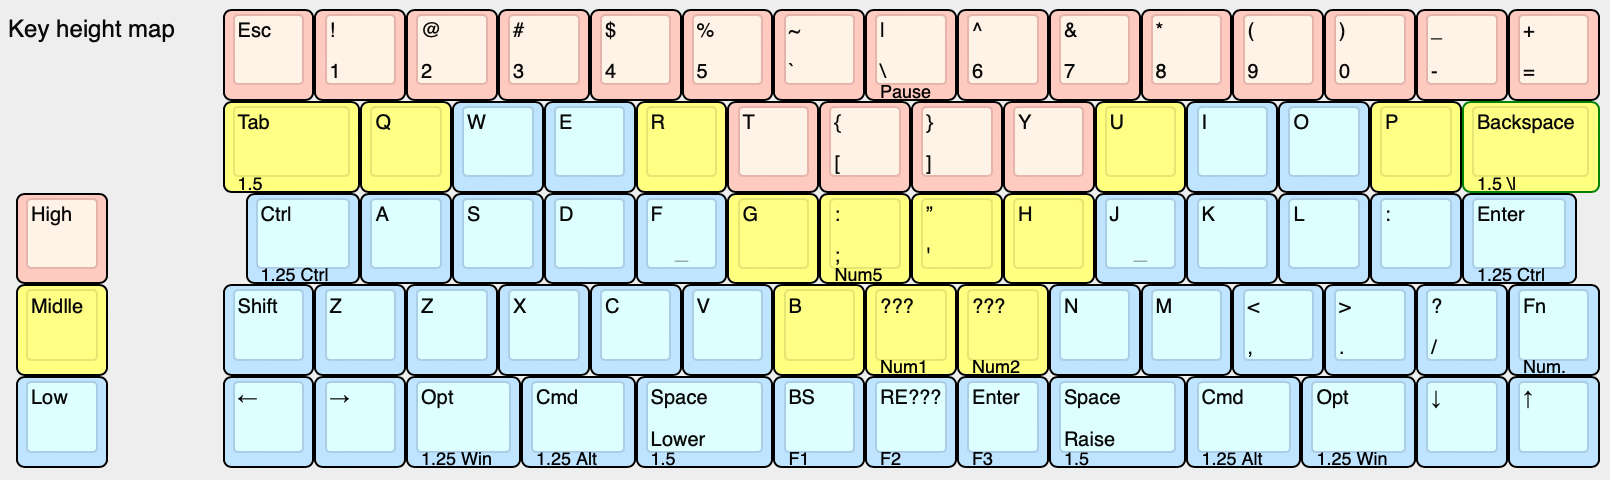
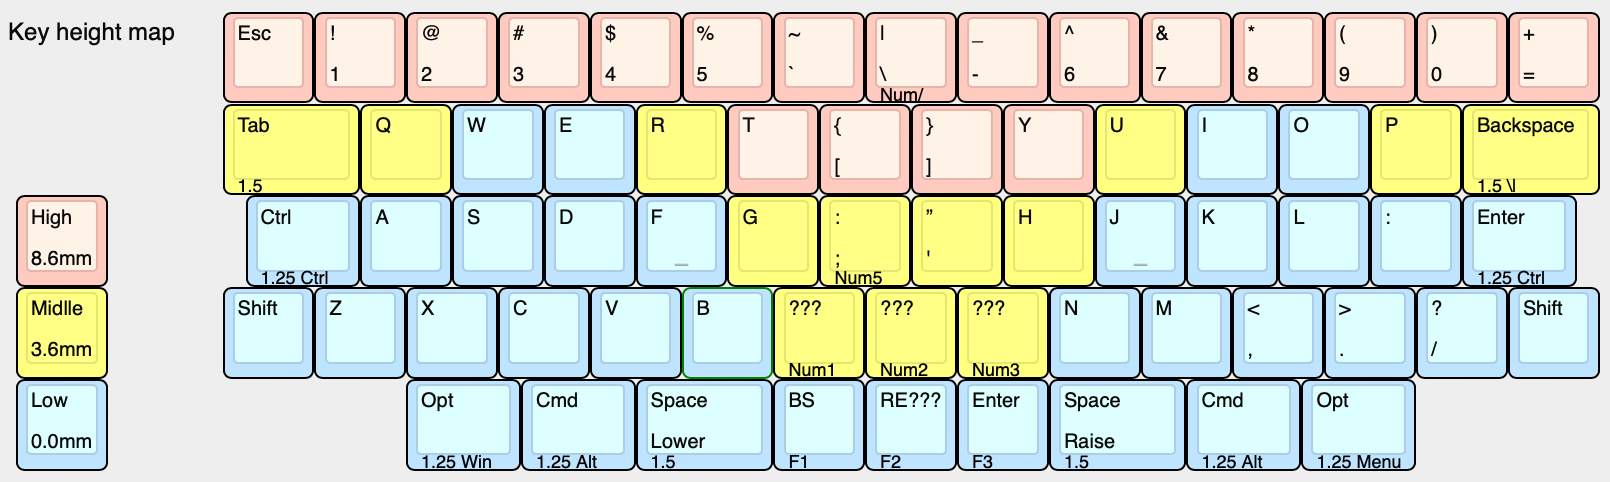
レイアウト追記

diff --git a/README.md b/README.md
@@ -46,20 +46,22 @@ Sandyは、スイッチの配置を立体的にして高さ方向への最適化
 ## レイアウト
 
 キーのバリエーションを含むレイアウトは以下の通りです。  
+Ctrl（左）とEnter（右）は、1.25uまたは1.5uのバリエーション。  
+最下行の中央には、ロータリーエンコーダを配置できます。
 [![Keyboard Layout Editor: Sandy (DN0030)](/assets/README/layout.png)  
 Keyboard Layout Editor: Sandy (DN0030)](http://www.keyboard-layout-editor.com/#/gists/c907e866d8f82b82a22b455e622b7301)
 
 キーの高さは3段階で、以下のように配置されます。  
-Lowを高さ0とした場合、Midは+3.6mm、Highは+8.6mmの高さになります。  
+Lowを高さ0とした場合、Midは3.6mm、Highは8.6mmの高さになります。  
 つまり、LowとMidの段差は3.6mm、MidとHighの段差は5mmとなります。
 ![キーの高さ](/assets/README/layout_height_map.png)
 
 [SemiErgo Layout](https://github.com/mtei/SemiErgo_Layout)に準ずるキーマッピングで使用することを念頭において設計したレイアウトです。  
-レガシーレイアウトの一般的なロースタガから、左手アルファ部のZ行と右手数字行を外側へ1キーずらしたレイアウトが、推奨されるレイアウトになります。  
+レガシーレイアウトの一般的なロースタガから、左手アルファ部のZ行と右手数字行を外側へ1キーずらしたレイアウトが、推奨されるレイアウトです。  
 
 SemiErgoを適用したレイアウト例は以下のようになります。  
-<small>注：スペースキーをSandS（＝Space & Shift）にしているので、左右端のシフトキーは取り除いてあります。</small>
 ![SemiErgoを適用したレイアウト](/assets/README/layout_SemiErgo_based.png)
+<small>注：スペースキーをSandS（＝Space & Shift）にしているので、左右端のシフトキーは取り除いてあります。</small>
 
 ## ビルドガイド
 
